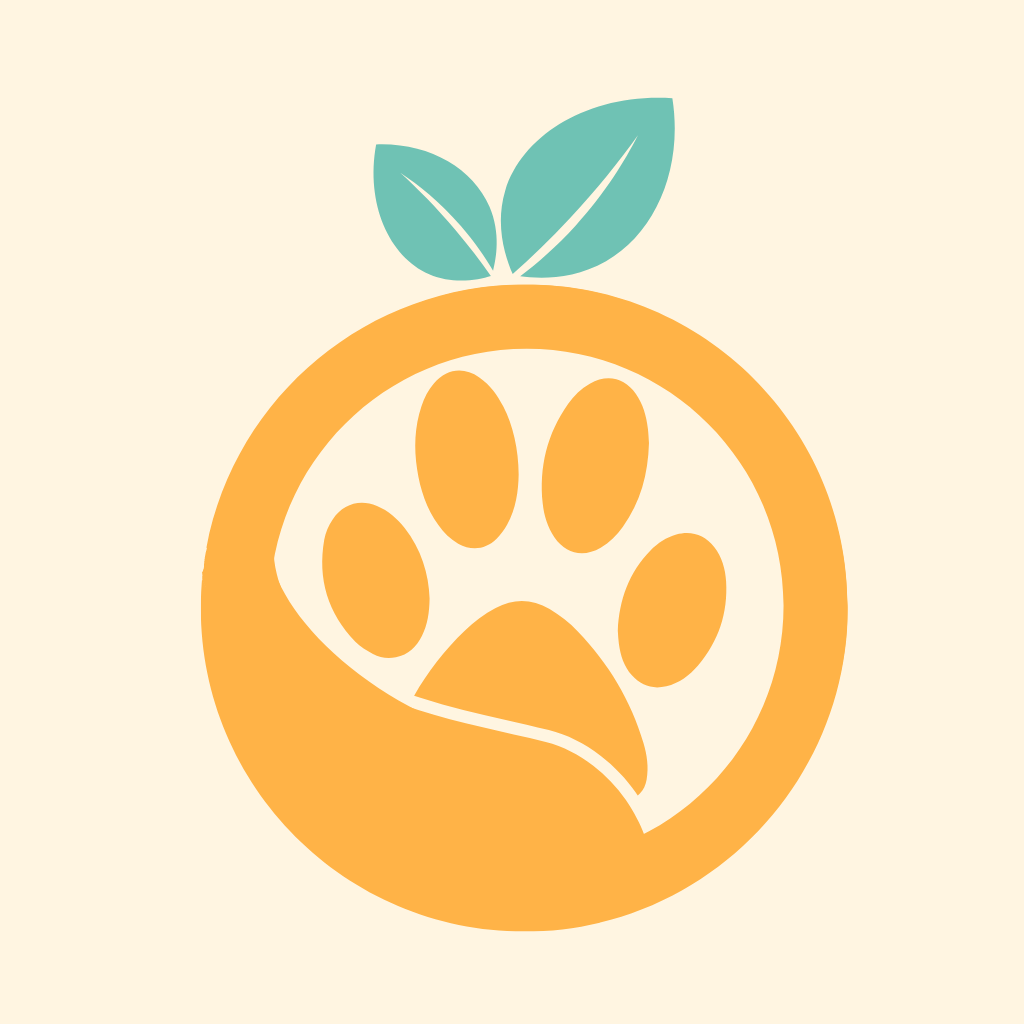
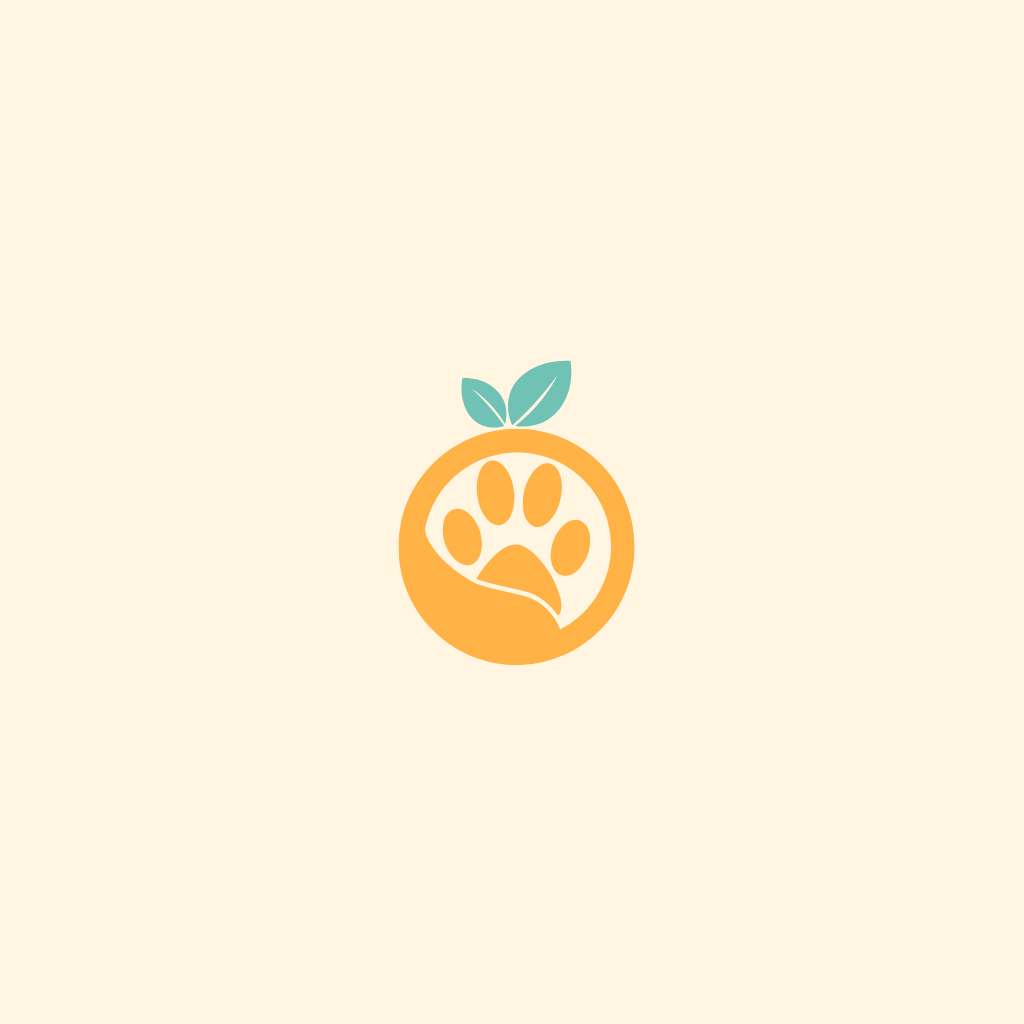
remove png file to use svg, update layout

Changed region(s): [[0.1875, 0.0938, 0.8438, 0.9375]]

diff --git a/app/(auth)/home.tsx b/app/(auth)/home.tsx
@@ -229,11 +229,11 @@ function HomeScreen() {
 
   // Combine animations for opacity and translateY based on scrollY in useDerivedValue
   const headerAnimation = useDerivedValue(() => {
-    const opacity = scrollY.value > 60 ? 0 : 1;
+    const opacity = scrollY.value > 120 ? 0 : 1;
     const translateY = interpolate(
       scrollY.value,
-      [0, 35],
-      [0, -35],
+      [0, 40],
+      [0, -40],
       Extrapolation.CLAMP
     );
     const zIndex = scrollY.value > 50 || isActive ? 0 : 1;
@@ -244,7 +244,7 @@ function HomeScreen() {
   const titleContainerStyle = useAnimatedStyle(() => {
     const { opacity, translateY, zIndex } = headerAnimation.value;
     return {
-      opacity: withTiming(opacity, { duration: 180, easing: Easing.out(Easing.ease) }),
+      opacity: withTiming(opacity, { duration: 150, easing: Easing.out(Easing.ease) }),
       transform: [{ translateY }],
       zIndex,
     };
@@ -252,10 +252,17 @@ function HomeScreen() {
 
   const scrollContainerStyle = useAnimatedStyle(() => {
     return {
-      opacity: scrollY.value > 60 ? withTiming(1) : withTiming(0),
+      opacity: scrollY.value > 60 ? withTiming(1, {duration: 150}) : withTiming(0, {duration: 150}),
       pointerEvents: scrollY.value > 50 ? 'auto' : 'none',
     };
   });
+
+  const listHeaderStyle = useAnimatedStyle(() => {
+    return {
+      opacity: scrollY.value > 40 ? withTiming(0, {duration: 150}) : withTiming(1, {duration: 150}),
+      pointerEvents: scrollY.value > 40 ? 'none' : 'auto',
+    }
+  })
 
   const emptyCardStyle = useAnimatedStyle(() => ({
     transform: [{ translateY: emptyCardOffset.value }],
@@ -458,9 +465,8 @@ function HomeScreen() {
       ) : (
         <DraggableFlatList
           ref={flatListRef}
-          ListHeaderComponentStyle={{ gap: 15, marginBottom: 15 }}
           ListHeaderComponent={
-            <>
+            <Animated.View style={[listHeaderStyle, { gap: 15, marginBottom: 15 }]}>
               {isSearching && (
                 <ThemedIconInput
                 style={styles.searchInput}
@@ -480,7 +486,7 @@ function HomeScreen() {
                   onFilterChange={setFilter}
                 />
               )}
-            </>}
+            </Animated.View>}
           ListEmptyComponent={
             <View style={styles.emptyItem}>
               <Ionicons color={color} name="search-outline" size={40} />

diff --git a/app/(public)/register.tsx b/app/(public)/register.tsx
@@ -15,8 +15,9 @@ import { t } from '@/i18n';
 import { registrationSchema } from '@/utils/validationSchemas';
 import { register } from '@/services/auth';
 import { width, height } from '@/constants/Constants';
-import {useLocale} from "@/context/LocaleContext";
+import { useLocale } from "@/context/LocaleContext";
 import { genConfig } from '@zamplyy/react-native-nice-avatar';
+import LOGO from '@/assets/svgs/orange-logo.svg';
 
 export default function RegisterScreen() {
     const colorScheme = useColorScheme();
@@ -82,7 +83,8 @@ export default function RegisterScreen() {
                     enableOnAndroid
                 >
                     <ThemedView style={styles.logoContainer}>
-                        <Image source={require('@/assets/images/orange-icon.png')} style={styles.orangeLogo} />
+                        <LOGO width={width * 0.25} height={width * 0.25} style={styles.orangeLogo} />
+                        {/* <Image source={require('@/assets/images/orange-icon.png')} style={styles.orangeLogo} /> */}
                     </ThemedView>
                     <ThemedText style={styles.title} type='defaultSemiBold'>{t('registerScreen.registerNewAccount')}</ThemedText>
                     <ThemedInput
@@ -153,17 +155,17 @@ const styles = StyleSheet.create({
     },
     logoContainer: {
         alignItems: 'center',
-        marginTop: 90,
+        marginTop: 105,
         marginBottom: 10,
-      },
-      orangeLogo: {
+    },
+    orangeLogo: {
         width: width * 0.3,
         height: height * 0.13,
         left: 0,
         right: 0,
         resizeMode: 'cover',
         marginBottom: 20,
-      },
+    },
     title: {
         marginBottom: 20,
         fontSize: 22,

diff --git a/app/(public)/forgot-password.tsx b/app/(public)/forgot-password.tsx
@@ -15,6 +15,7 @@ import { forgot } from '@/services/auth';
 import { ThemedText } from '@/components/ThemedText';
 import { width, height } from '@/constants/Constants';
 import { useLocale } from '@/context/LocaleContext';
+import LOGO from '@/assets/svgs/orange-logo.svg';
 
 export default function ForgotPasswordScreen() {
   const colorScheme = useColorScheme();
@@ -73,7 +74,8 @@ export default function ForgotPasswordScreen() {
           scrollEnabled={isKeyboardVisible}
         >
           <ThemedView style={styles.logoContainer}>
-            <Image source={require('@/assets/images/orange-icon.png')} style={styles.orangeLogo} />
+          <LOGO width={width * 0.25} height={width * 0.25} style={styles.orangeLogo} />
+            {/* <Image source={require('@/assets/images/orange-icon.png')} style={styles.orangeLogo} /> */}
           </ThemedView>
           <ThemedText style={styles.title} type='defaultSemiBold'>{t('forgotPasswordScreen.forgotPassword')}</ThemedText>
           <ThemedInput
@@ -114,7 +116,7 @@ const styles = StyleSheet.create({
   },
   logoContainer: {
     alignItems: 'center',
-    marginTop: 90,
+    marginTop: 105,
     marginBottom: 10,
   },
   orangeLogo: {

diff --git a/app/(public)/login.tsx b/app/(public)/login.tsx
@@ -19,6 +19,7 @@ import { loginSchema } from '@/utils/validationSchemas';
 import { login } from '@/services/auth';
 import { width, height } from '@/constants/Constants';
 import { useLocale } from '@/context/LocaleContext';
+import LOGO from '@/assets/svgs/orange-logo.svg';
 
 export default function LoginScreen() {
   const { locale } = useLocale();
@@ -93,7 +94,8 @@ export default function LoginScreen() {
           scrollEnabled={isKeyboardVisible}
         >
           <ThemedView style={styles.logoContainer}>
-            <Image source={require('@/assets/images/orange-icon.png')} style={styles.orangeLogo} />
+            <LOGO width={width * 0.25} height={width * 0.25} style={styles.orangeLogo} />
+            {/* <Image source={require('@/assets/images/orange-icon.png')} style={styles.orangeLogo} /> */}
           </ThemedView>
           <ThemedInput
             label={t('loginScreen.email')}
@@ -159,7 +161,7 @@ const styles = StyleSheet.create({
   },
   logoContainer: {
     alignItems: 'center',
-    marginTop: 90,
+    marginTop: 105,
     marginBottom: 10,
   },
   orangeLogo: {

diff --git a/app/_layout.tsx b/app/_layout.tsx
@@ -13,6 +13,7 @@ import { checkOfflineStatus } from '@/services/network';
 import { LocaleProvider } from '@/context/LocaleContext';
 import { ThemeProvider } from '@/context/ThemeContext';
 import { storage } from '@/utils/storage';
+import LOGO from '@/assets/svgs/orange-logo.svg';
 
 // Keep the splash screen visible while we fetch resources
 SplashScreen.preventAutoHideAsync();
@@ -88,11 +89,12 @@ export default function RootLayout() {
     if (!isAppReady || isAuthenticated === null || hasSeenOnboarding === null) {
         return (
             <View style={styles.loadingContainer} onLayout={onLayoutRootView}>
-                <Image
+            <LOGO width={width * 0.23} height={width * 0.23} style={styles.orangeLogo} />
+                {/* <Image
                     resizeMode='contain'
                     source={require('@/assets/images/orange-icon.png')}
                     style={styles.orangeLogo}
-                />
+                /> */}
                 <ActivityIndicator
                     style={styles.activityIndicator}
                     size="small"

diff --git a/app/(auth)/(settings)/settings.tsx b/app/(auth)/(settings)/settings.tsx
@@ -165,7 +165,7 @@ function SettingsScreen() {
                 <View style={styles.headerContainer}>
                     <View style={styles.titleButtonContainer}>
                         <ThemedButton
-                            iconName="chevron-back"
+                            iconName="chevron-back-outline"
                             style={styles.titleButton}
                             onPress={onNavigateBack}
                         />

diff --git a/app/(auth)/(detail)/qr-screen.tsx b/app/(auth)/(detail)/qr-screen.tsx
@@ -69,7 +69,7 @@ const styles = StyleSheet.create({
         alignItems: 'center',
     },
     headerWrapper: {
-        paddingTop: STATUSBAR_HEIGHT + 25,
+        paddingTop: STATUSBAR_HEIGHT + 45,
         flexDirection: 'row',
         alignItems: 'center',
         justifyContent: 'space-between',

diff --git a/services/localDB/userDB/index.ts b/services/localDB/userDB/index.ts
@@ -36,7 +36,6 @@ export async function createTable() {
                 avatar TEXT
             );
         `);        
-        console.log('Table was created successfully');
     } catch (error) {
         console.error('Error creating table:', error);
         throw error;

diff --git a/components/cards/ThemedCardItem.tsx b/components/cards/ThemedCardItem.tsx
@@ -207,6 +207,7 @@ const styles = StyleSheet.create({
   companyName: {
     fontSize: 14,
     color: 'white',
+    marginBottom: -2,
   },
   companyFullName: {
     fontSize: 14,
